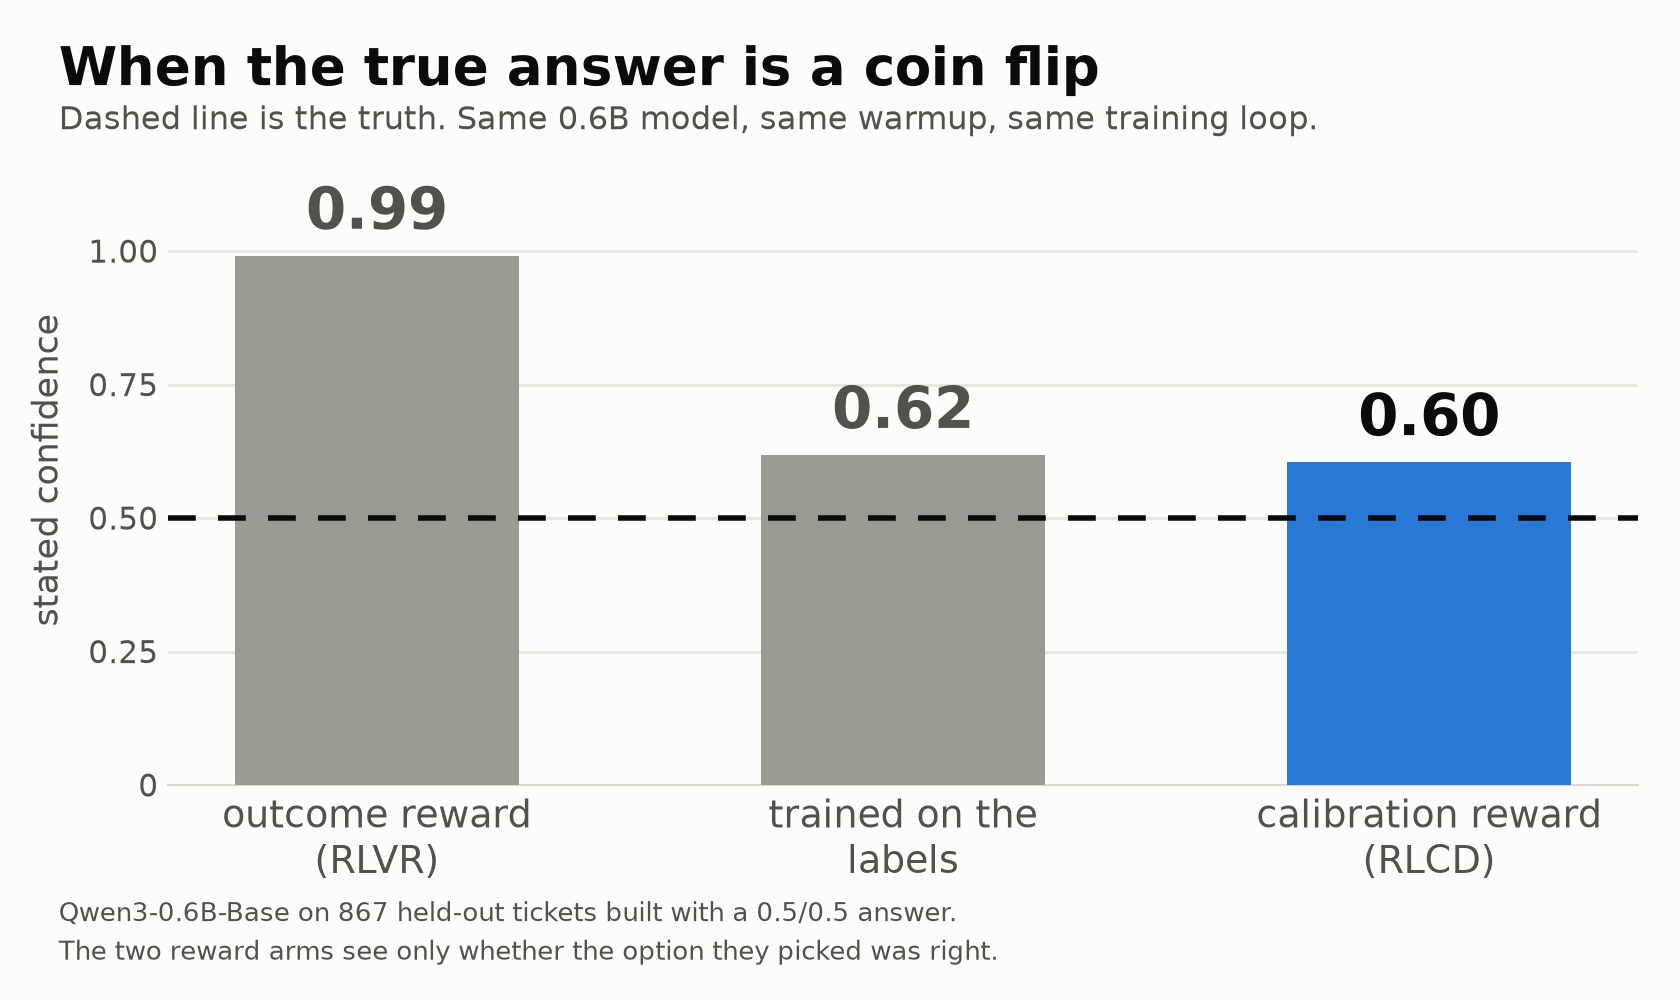
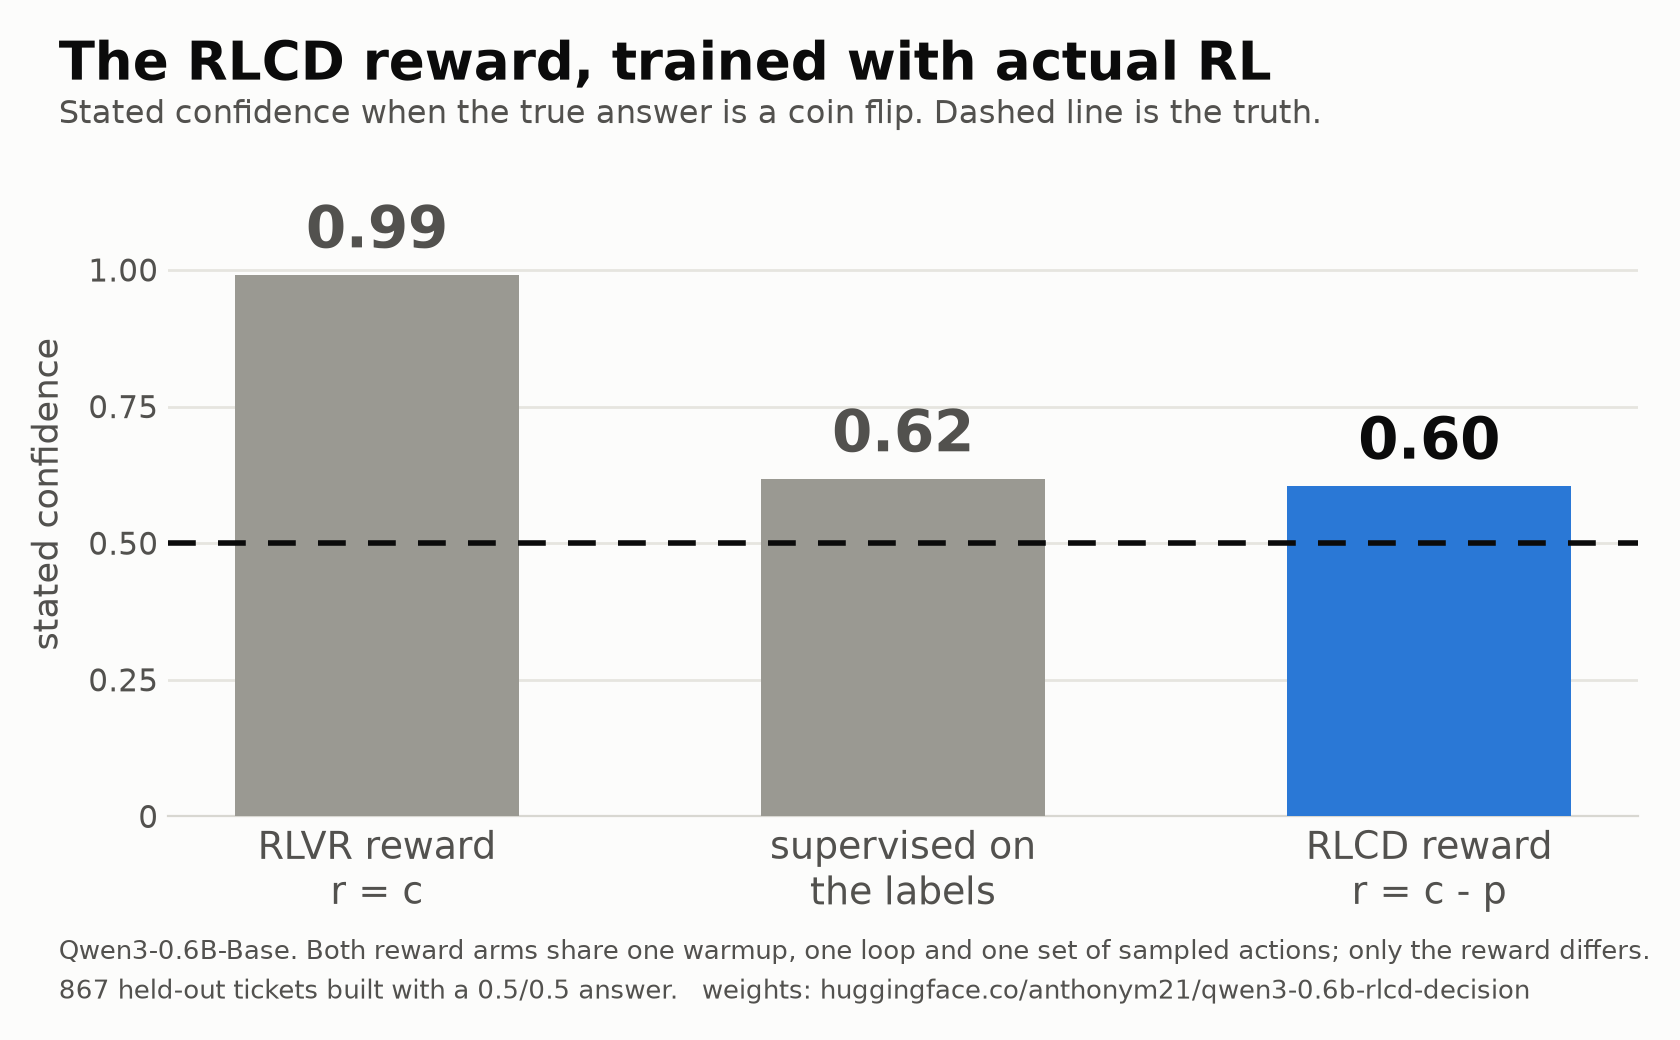
Frame the social image around the RLCD reward

diff --git a/scripts/make_social_image.py b/scripts/make_social_image.py
@@ -1,4 +1,4 @@
-"""Tweet image: stated confidence when the true answer is a coin flip.
+"""Social image: stated confidence when the true answer is a coin flip.
 
 Numbers are the dept_double.mean_max_p field of each run's eval/probe.json,
 i.e. the published checkpoint (runs/q-rlcd) and its two comparison arms.
@@ -17,16 +17,16 @@ MUTED = "#9a9992"
 IDEAL = 0.5
 
 runs = [
-    ("outcome reward\n(RLVR)", "runs/q-rlvr-lowlr", MUTED),
-    ("trained on the\nlabels", "runs/q-oracle", MUTED),
-    ("calibration reward\n(RLCD)", "runs/q-rlcd", HERO),
+    ("RLVR reward\nr = c", "runs/q-rlvr-lowlr", MUTED),
+    ("supervised on\nthe labels", "runs/q-oracle", MUTED),
+    ("RLCD reward\nr = c - p", "runs/q-rlcd", HERO),
 ]
 bars = []
 for label, run, color in runs:
     report = json.load(open(f"{run}/eval/probe.json", encoding="utf-8"))["report"]
     bars.append((label, report["dept_double"]["mean_max_p"], color, report["dept_double"]["n"]))
 
-fig, ax = plt.subplots(figsize=(8.4, 5.0), dpi=200)
+fig, ax = plt.subplots(figsize=(8.4, 5.2), dpi=200)
 fig.patch.set_facecolor(SURFACE)
 ax.set_facecolor(SURFACE)
 
@@ -51,17 +51,18 @@ for side in ("top", "right", "left"):
 ax.spines["bottom"].set_color("#d8d7d1")
 ax.tick_params(length=0)
 
-fig.text(0.035, 0.955, "When the true answer is a coin flip",
+fig.text(0.035, 0.962, "The RLCD reward, trained with actual RL",
          fontsize=19, fontweight="bold", color=INK, va="top")
-fig.text(0.035, 0.895,
-         "Dashed line is the truth. Same 0.6B model, same warmup, same training loop.",
+fig.text(0.035, 0.905,
+         "Stated confidence when the true answer is a coin flip. Dashed line is the truth.",
          fontsize=11.5, color=INK_2, va="top")
 fig.text(0.035, 0.028,
-         f"Qwen3-0.6B-Base on {bars[0][3]} held-out tickets built with a 0.5/0.5 answer.\n"
-         "The two reward arms see only whether the option they picked was right.",
+         f"Qwen3-0.6B-Base. Both reward arms share one warmup, one loop and one set of sampled "
+         f"actions; only the reward differs.\n{bars[0][3]} held-out tickets built with a 0.5/0.5 "
+         "answer.   weights: huggingface.co/anthonym21/qwen3-0.6b-rlcd-decision",
          fontsize=9.5, color=INK_2, va="bottom", linespacing=1.5)
 
-fig.subplots_adjust(left=0.10, right=0.975, top=0.845, bottom=0.215)
+fig.subplots_adjust(left=0.10, right=0.975, top=0.835, bottom=0.215)
 out = "docs/img/tweet-coinflip.png"
 fig.savefig(out, facecolor=SURFACE)
 print("wrote", out, {b[0].replace(chr(10), " "): round(b[1], 4) for b in bars})
